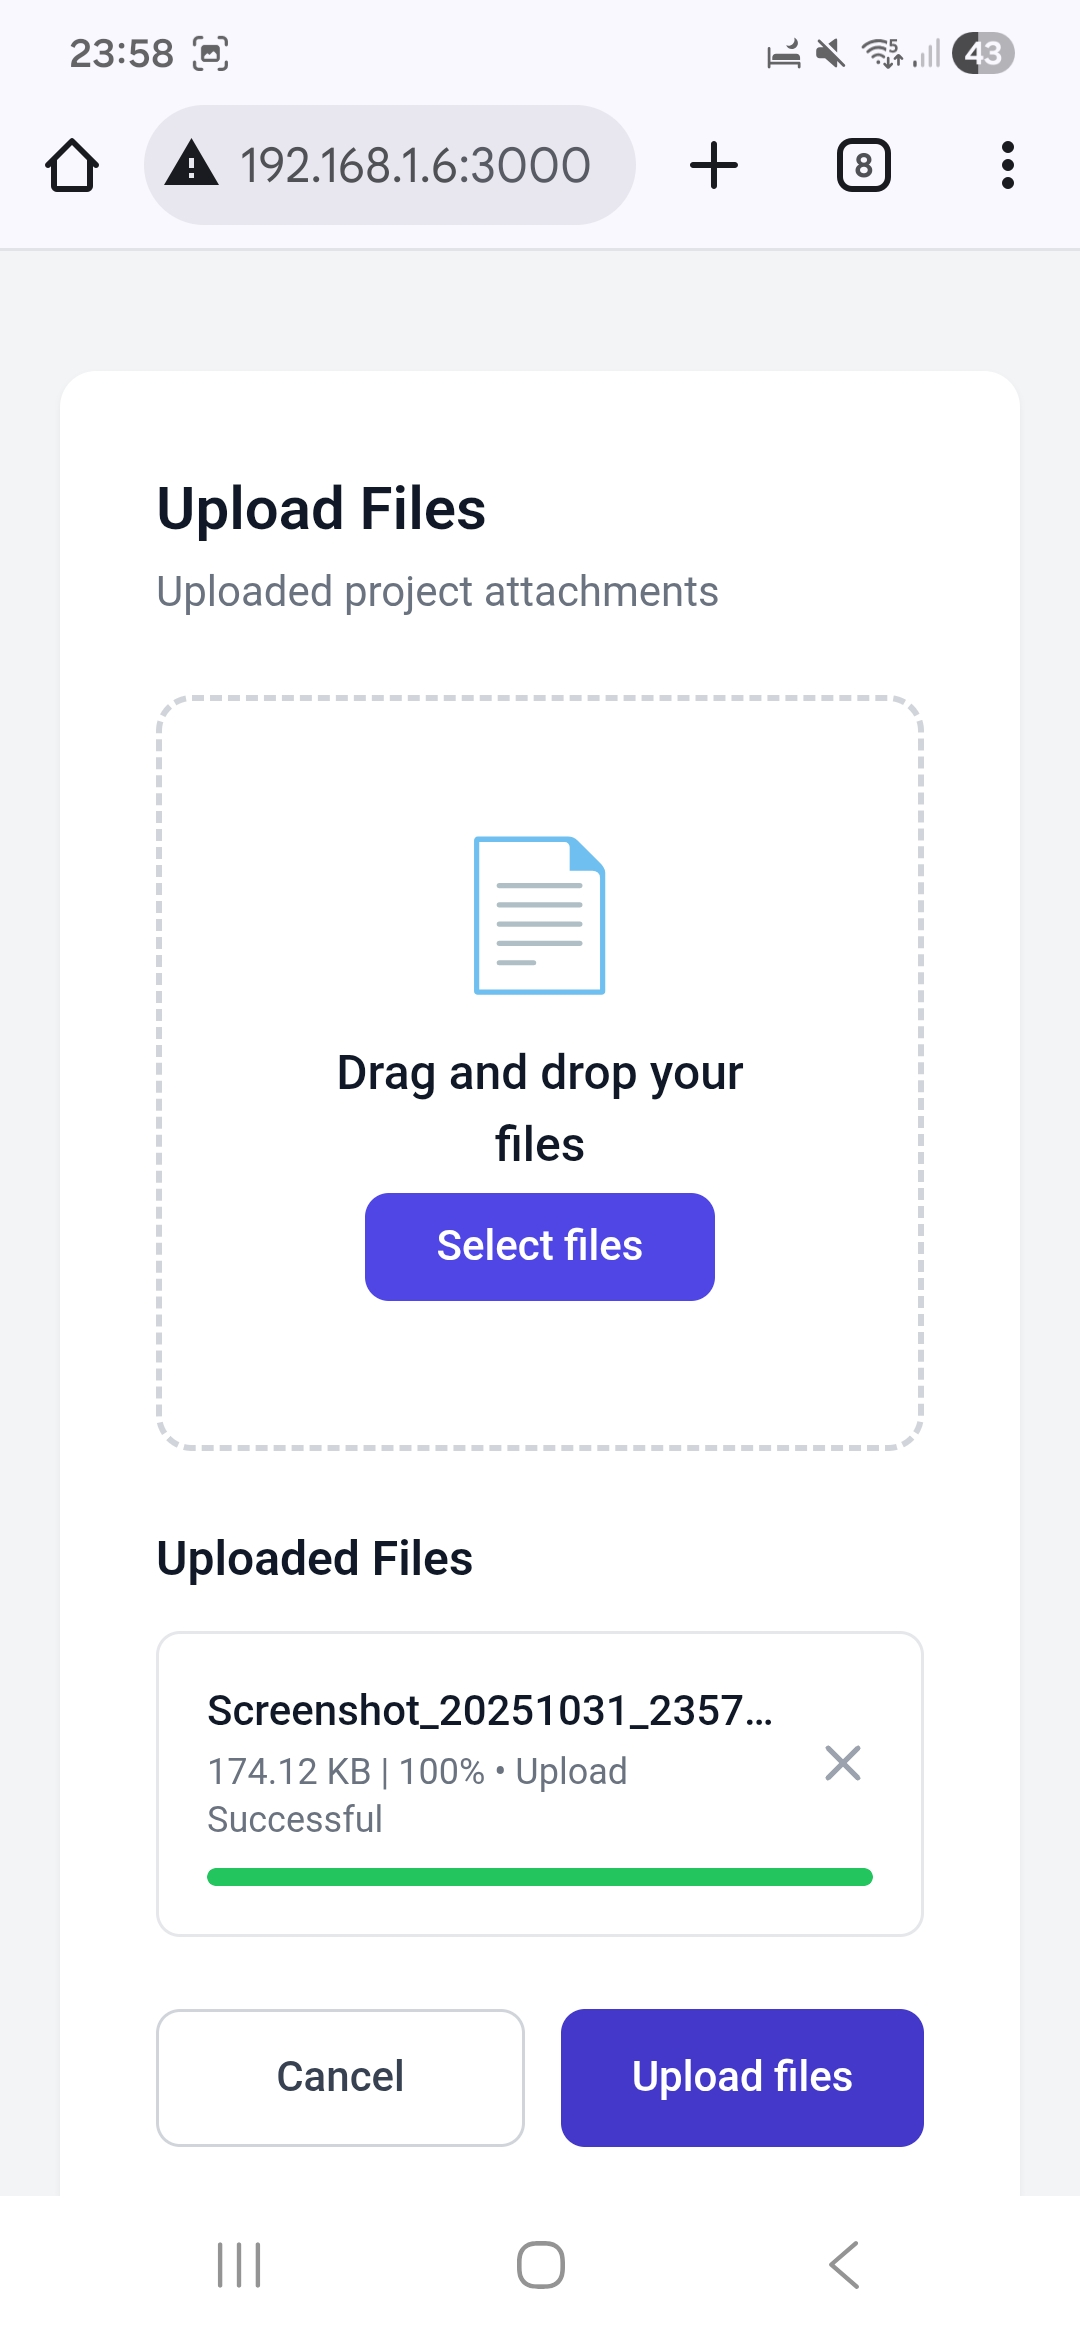
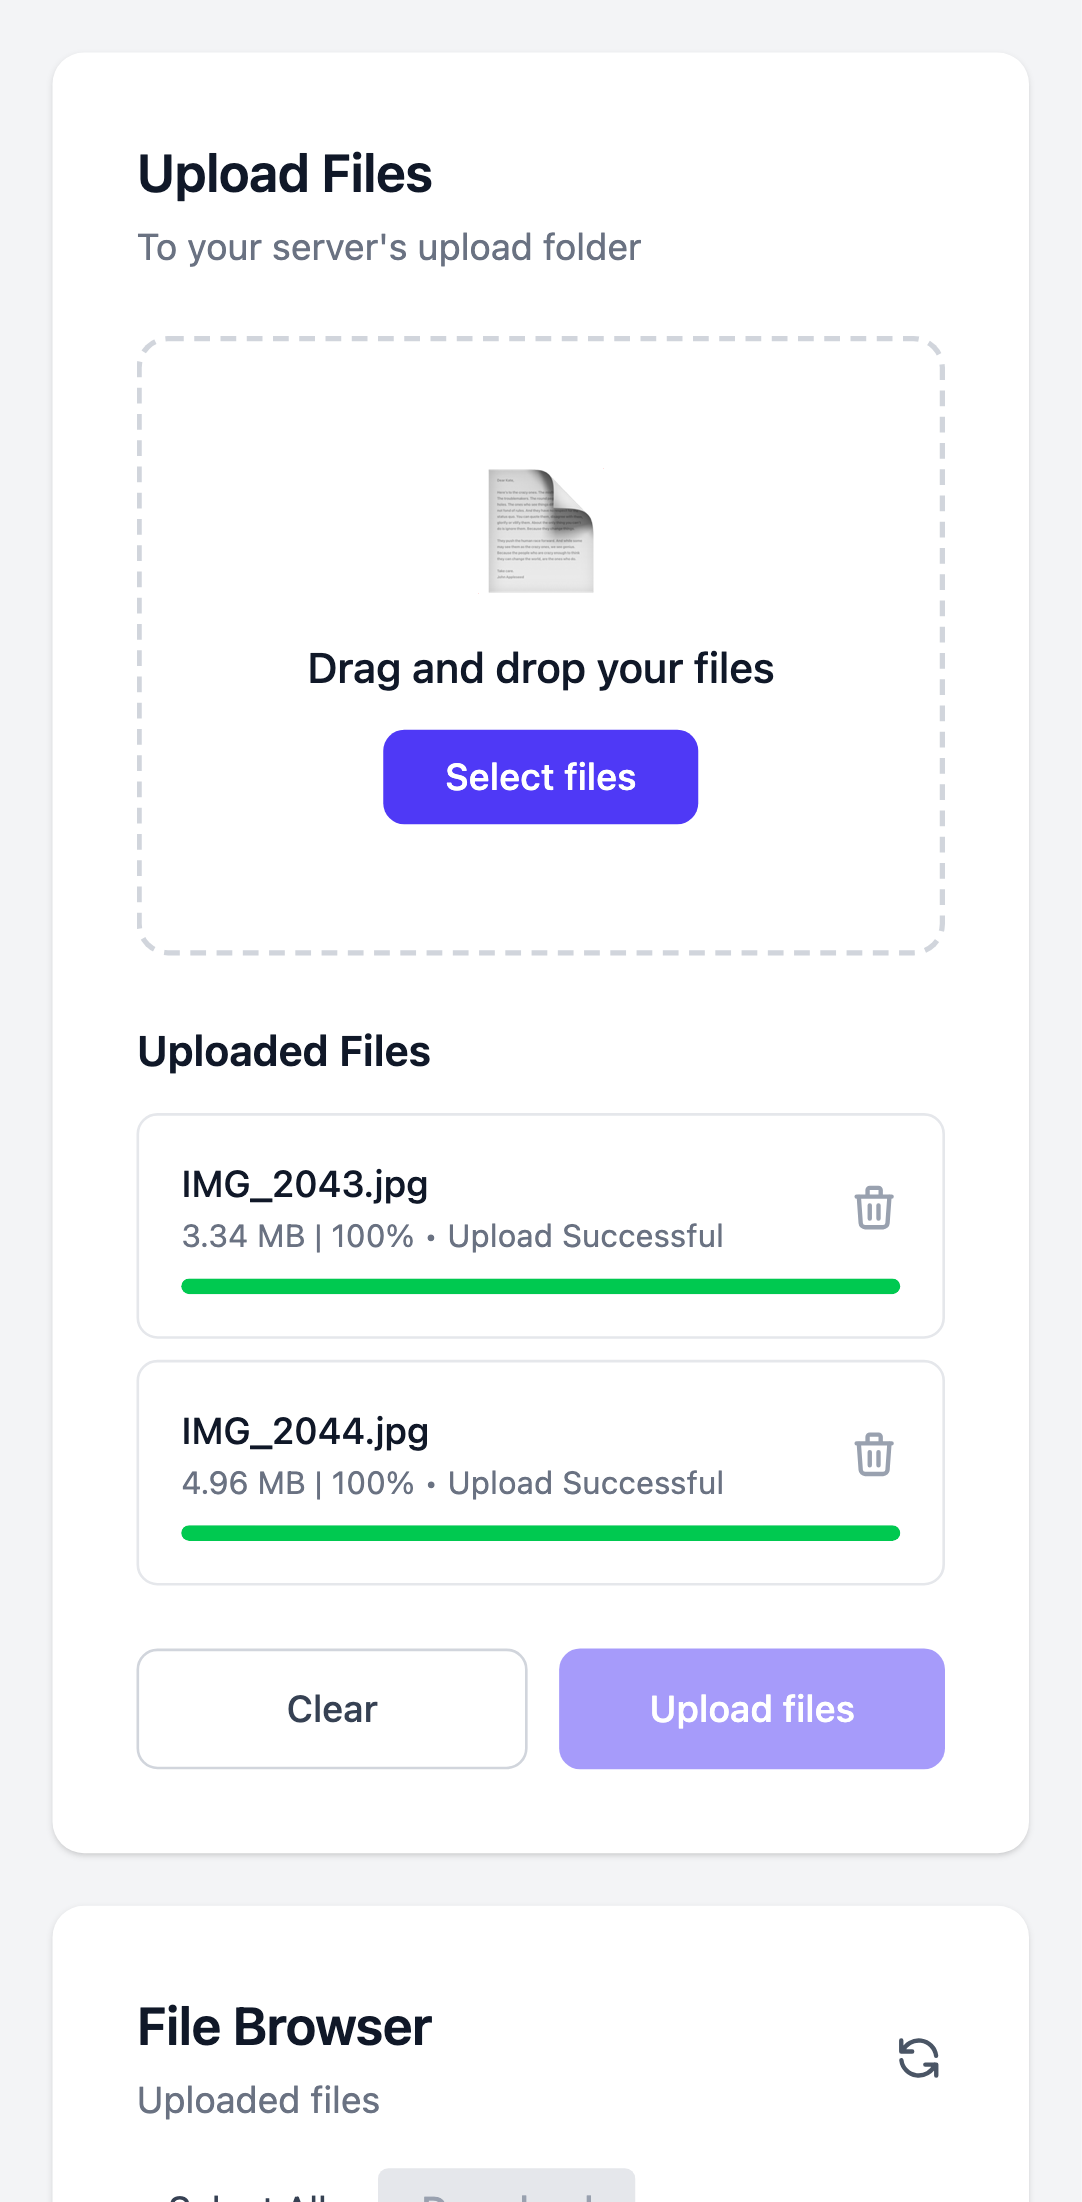
docs(readme): lead with the one-line install and refresh screenshots
- Quick start with brew install totherush/tap/qrup at the top
- Describe transfers in both directions, options as a table, and the
  macOS firewall prompt
- Replace screenshots: the terminal one showed a browser page, the
  others predated v0.2
- Move the project structure to CONTRIBUTING.md

Amp-Thread-ID: https://ampcode.com/threads/T-01a1e90c-69ab-70f4-8b58-1a7bc7db390c

diff --git a/README.md b/README.md
@@ -2,141 +2,80 @@
 
 [![License: MIT](https://img.shields.io/badge/License-MIT-blue.svg)](https://opensource.org/licenses/MIT)
 
-Simple file uploader for local network use. Upload files from your mobile device to the server with QR code scanning for easy access.
-
-> ⚠ **Security Warning**: This application is designed for LOCAL NETWORK USE ONLY. Do NOT expose this server to the public internet without proper authentication and security measures.
-
-## Table of Contents
-
-- [QRUp](#qrup)
-  - [Table of Contents](#table-of-contents)
-  - [How It Works](#how-it-works)
-    - [1. Start the Server](#1-start-the-server)
-    - [2. Access from Desktop](#2-access-from-desktop)
-    - [3. Access from Mobile](#3-access-from-mobile)
-    - [4. Upload Files](#4-upload-files)
-  - [Setup](#setup)
-    - [Installation via Homebrew](#installation-via-homebrew)
-    - [Manual Setup](#manual-setup)
-  - [Requirements](#requirements)
-  - [Release Process](#release-process)
-
-## How It Works
-
-### 1. Start the Server
-
-When you run the application, a QR code is displayed in your terminal along with the local network URL:
-
-<img src=".github/screenshots/qr-terminal.png" alt="Terminal with QR code" width="600">
-
-### 2. Access from Desktop
-
-Open the URL in your desktop browser to upload files locally:
-
-<img src=".github/screenshots/desktop-browser.png" alt="Desktop browser upload interface" width="600">
-
-### 3. Access from Mobile
-
-Scan the QR code with your mobile device to instantly access the upload page:
-
-<img src=".github/screenshots/mobile-browser.png" alt="Mobile browser upload interface" width="300">
-
-### 4. Upload Files
-
-- Drag and drop files onto the upload area
-- Or click to select files from your device
-- Files are saved to the `uploads` folder
-- Works seamlessly on both desktop and mobile devices
-
-## Setup
-
-### Installation via Homebrew
-
-Works on macOS and Linux (Apple Silicon, Intel, x64, arm64). The formula installs a standalone binary, so nothing else is needed.
+Move files between your phone and your computer over Wi-Fi. Run `qrup`, scan the QR code, and use the page that opens on your phone. No app, no account, no cloud: files stay on your network.
 
 ```bash
-brew tap totherush/tap
-brew install qrup
-```
-
-**Usage:**
-
-```bash
-# Start with default settings (port 3000, uploads folder)
+brew install totherush/tap/qrup
 qrup
-
-# Specify custom port and upload directory
-qrup --port 8080 --upload /path/to/uploads
-
-# Using short flags
-qrup -p 8080 -u ./my-uploads
 ```
 
-**CLI Options:**
+> ⚠ **Local network only.** Anyone on the same network who opens the page can list, download, and delete files in the upload folder. Do not expose qrup to the internet.
 
-- `--port, -p` - Server port (default: 3000)
-- `--upload, -u` - Upload directory path, absolute or relative to the current directory (default: `./uploads`)
+## How it works
 
-To update to the latest version:
+1. **Start qrup** in a terminal. It prints the local network address and a QR code:
+
+   <img src=".github/screenshots/qr-terminal.png" alt="Terminal with QR code" width="600">
+
+2. **Scan the QR code** with your phone's camera. The upload page opens in the phone's browser:
+
+   <img src=".github/screenshots/mobile-browser.png" alt="qrup on a phone" width="300">
+
+3. **Send files** either way:
+   - From the phone: select photos, videos, or other files. Up to three upload at a time, and each shows its progress.
+   - To the phone: tick files in the file browser and tap Download. Several files or a folder arrive as one ZIP.
+
+   The same page works in a desktop browser, with drag and drop:
+
+   <img src=".github/screenshots/desktop-browser.png" alt="qrup in a desktop browser" width="600">
+
+Uploads are saved to `./uploads` in the folder you start qrup from. A file whose name already exists is saved as `name (1).ext`, and a cancelled upload leaves nothing behind.
+
+## Install
+
+### Homebrew (macOS and Linux)
 
 ```bash
-brew update
-brew upgrade qrup
+brew install totherush/tap/qrup
 ```
 
-### Manual Setup
+This installs a standalone binary for Apple Silicon, Intel, Linux x64, or Linux arm64, with nothing else to install. Update with `brew upgrade qrup`.
 
-1. Install dependencies:
+### Prebuilt binary
+
+Download `qrup-<platform>.tar.gz` from the [latest release](https://github.com/totherush/qrup/releases/latest), unpack it, and run `./qrup`. Checksums are in `SHA256SUMS`.
+
+## Usage
+
+```bash
+qrup                          # port 3000, saves to ./uploads
+qrup -p 8080 -u ~/Downloads   # custom port and upload folder
+qrup --help                   # all options
+```
+
+| Option            | Environment variable | Default     |                                                              |
+| ----------------- | -------------------- | ----------- | ------------------------------------------------------------ |
+| `-p`, `--port`    | `PORT`               | `3000`      | Port to listen on                                            |
+| `-u`, `--upload`  | `UPLOAD_FOLDER`      | `./uploads` | Upload folder, absolute or relative to the current directory |
+| `-v`, `--version` |                      |             | Print the version                                            |
+| `-h`, `--help`    |                      |             | Print the help                                               |
+
+The first time it runs, macOS may ask whether qrup may accept incoming network connections. Allow it, or your phone cannot reach the page.
+
+## Development
+
+Requires [Bun](https://bun.sh) and Node 24 (see `.nvmrc`) for the build and test tools.
+
 ```bash
 bun install
+bun run dev        # rebuilds the client and restarts the server on changes
+bun run check      # TypeScript and Biome
+bun run test:e2e   # Playwright end-to-end tests
 ```
 
-2. (Optional) Configure environment variables:
-   - Copy `.env.example` to `.env`
-   - Available environment variables:
-     - `PORT` - Server port (default: 3000)
-     - `UPLOAD_FOLDER` - Upload directory path (default: uploads)
+See [CONTRIBUTING.md](CONTRIBUTING.md) for the project structure and how to submit changes.
 
-3. Start the server:
-
-   ```bash
-   bun run dev
-   ```
-
-   Or for production:
-
-   ```bash
-   bun start
-   ```
-
-4. Access the upload page:
-   - On the same device: http://localhost:3000
-   - From mobile device: Scan the QR code displayed in the terminal
-
-## Project Structure
-
-```
-server/        Express server (Bun runtime)
-  index.ts     entry point: config, banner, QR code
-  app.ts       wires the API routers and the static client
-  routes/      upload + delete, file list + download
-  lib/         path safety, file tree, logging, network addresses
-client/src/    React app
-  api.ts       typed calls to the server API
-  hooks/       upload queue (parallel uploads, progress, cancel)
-  components/  upload panel, file browser
-shared/api.ts  request and response types used by both sides
-tests/         Playwright end-to-end tests
-```
-
-Development needs Node 24 (see `.nvmrc`) for the build and test tools. Checks: `bun run check` (TypeScript + Biome), `bun run test:e2e` (Playwright).
-
-## Requirements
-
-- Both devices on the same local network
-- For the manual setup only: Bun, plus Node 24 for the build and test tools
-
-## Release Process
+### Release process
 
 1. Run the release command on an up-to-date `main`. It type-checks, lints and builds, bumps the version in package.json, updates CHANGELOG.md, and commits and tags the release:
 

diff --git a/AGENTS.md b/AGENTS.md
@@ -1,6 +1,6 @@
 # QRUp agent guide
 
-QRUp serves a local web page for moving files between a phone and a computer on the same network. See README.md for usage and the project structure.
+QRUp serves a local web page for moving files between a phone and a computer on the same network. See README.md for usage and CONTRIBUTING.md for the project structure.
 
 Planned work lives in `PLAN.md`, a local file that is gitignored and only exists in the maintainer's checkout. When it is present, read it before starting, and update it when you finish or discover work.
 
